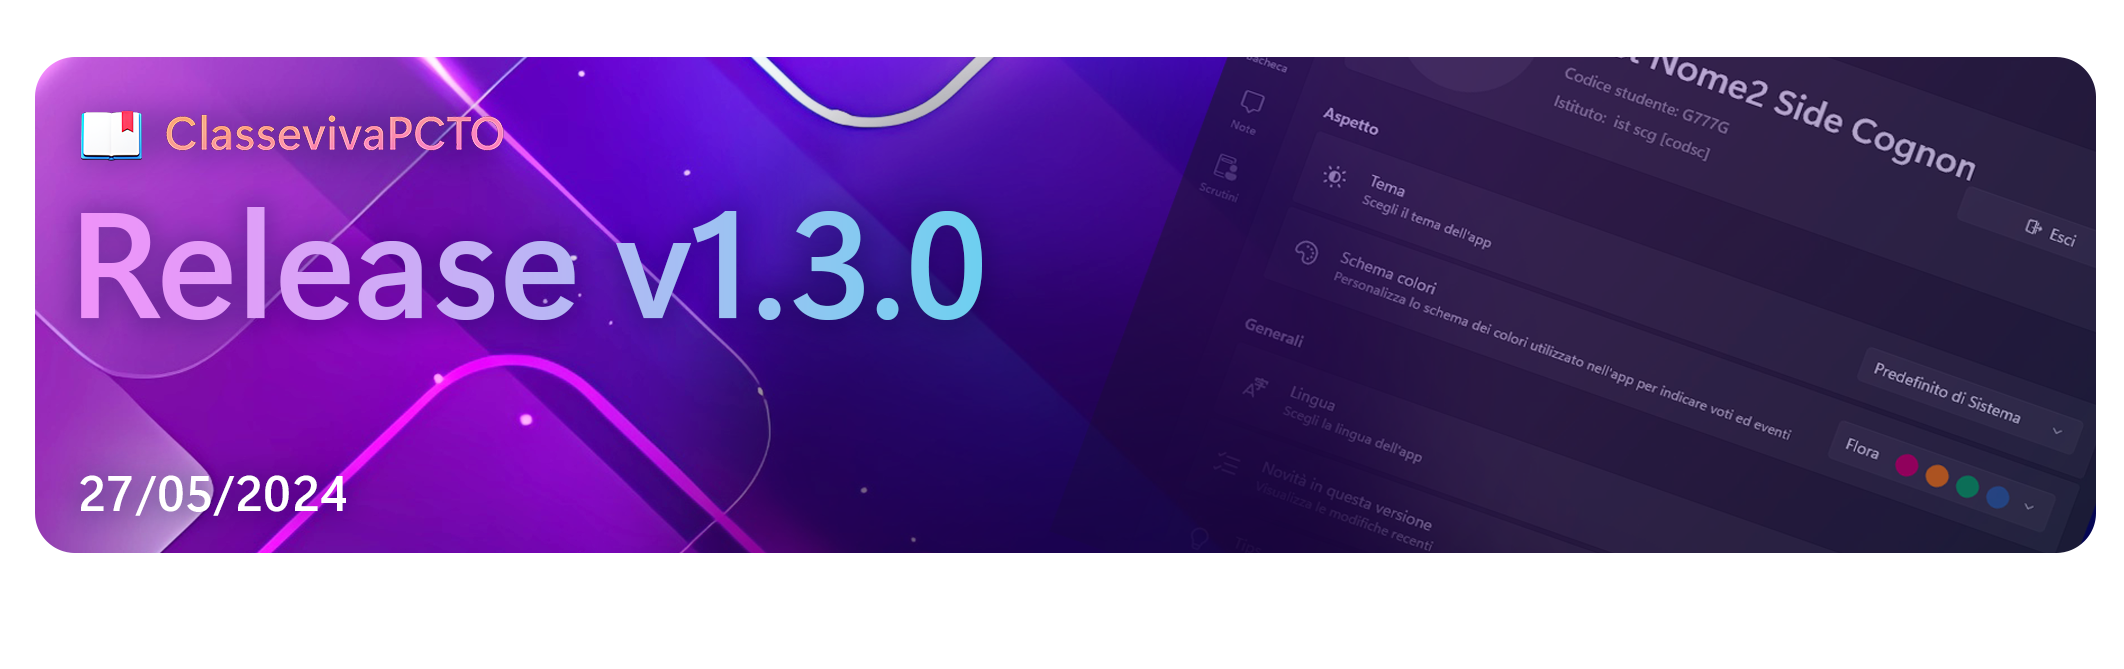
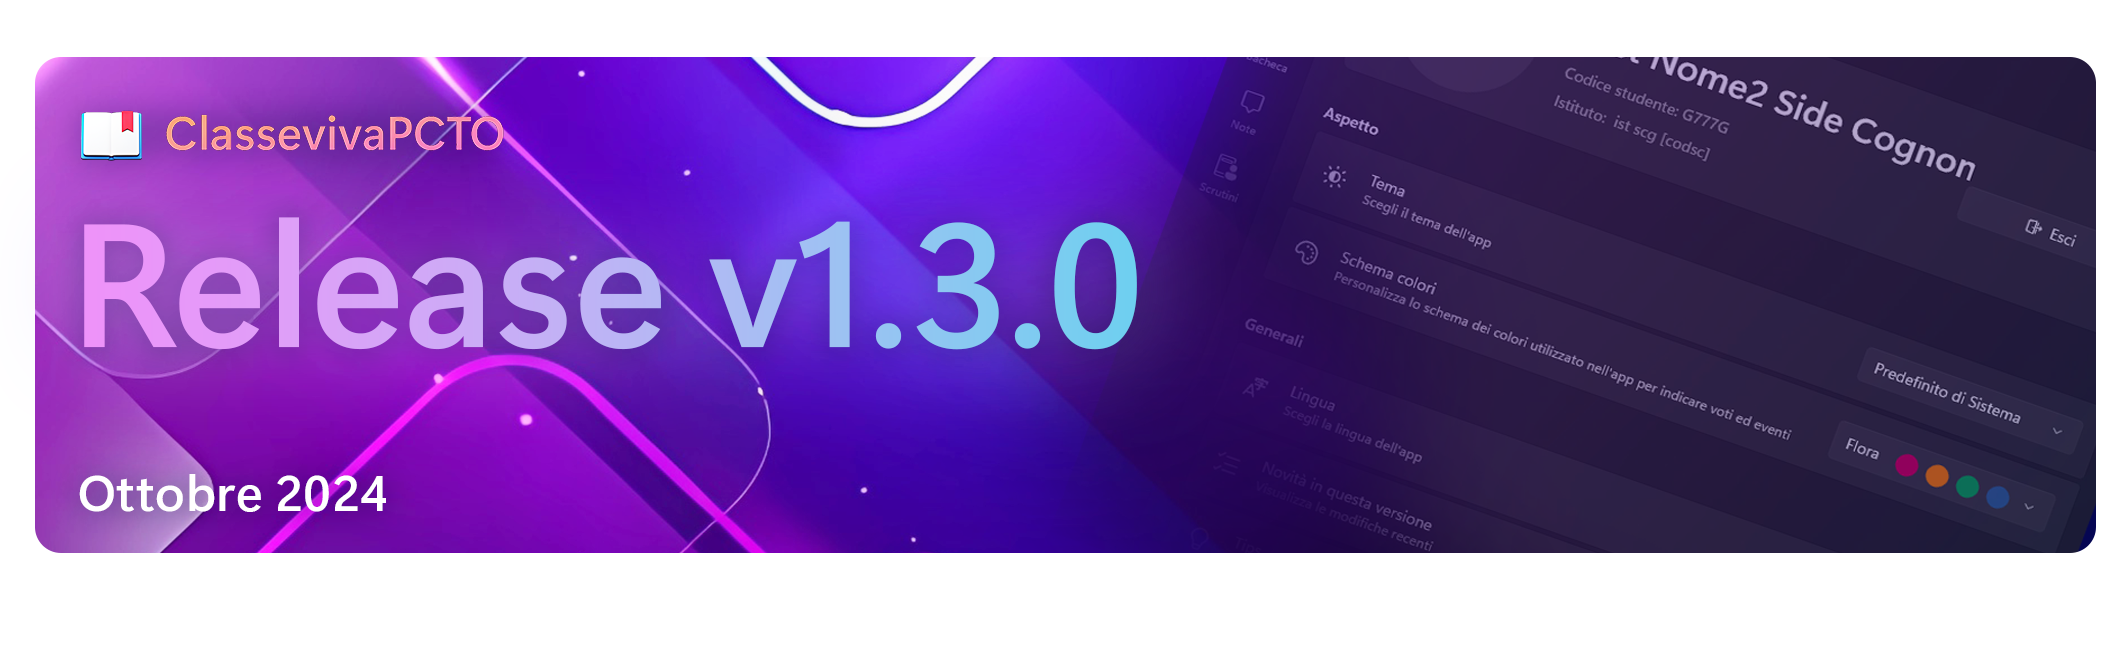
final commit

diff --git a/ClassevivaPCTO/Dialogs/FirstRunDialog.xaml b/ClassevivaPCTO/Dialogs/FirstRunDialog.xaml
@@ -47,7 +47,7 @@
             <Image Width="870"
                    Height="350"
                    Margin="-14,-55,0,-90"
-                   Source="/Assets/BannerRelease1_3.png"
+                   Source="/Assets/BannerGetStarted.png"
                    Stretch="Uniform" />
 
             <TextBlock Margin="0,20,0,16"
